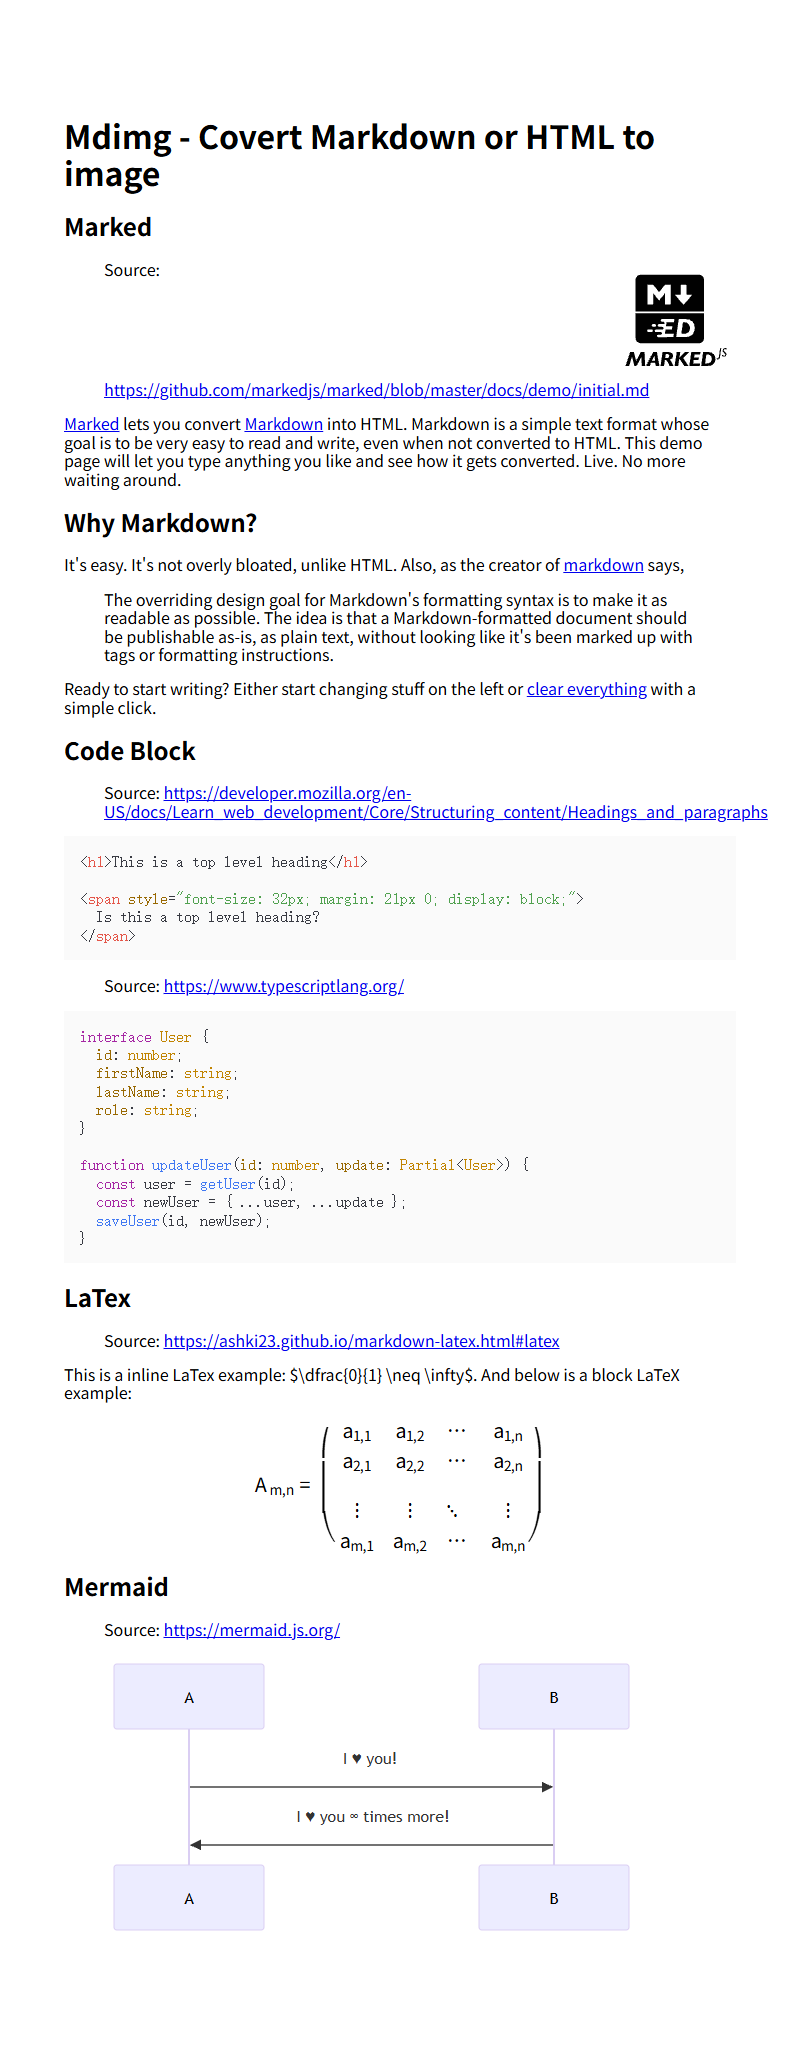
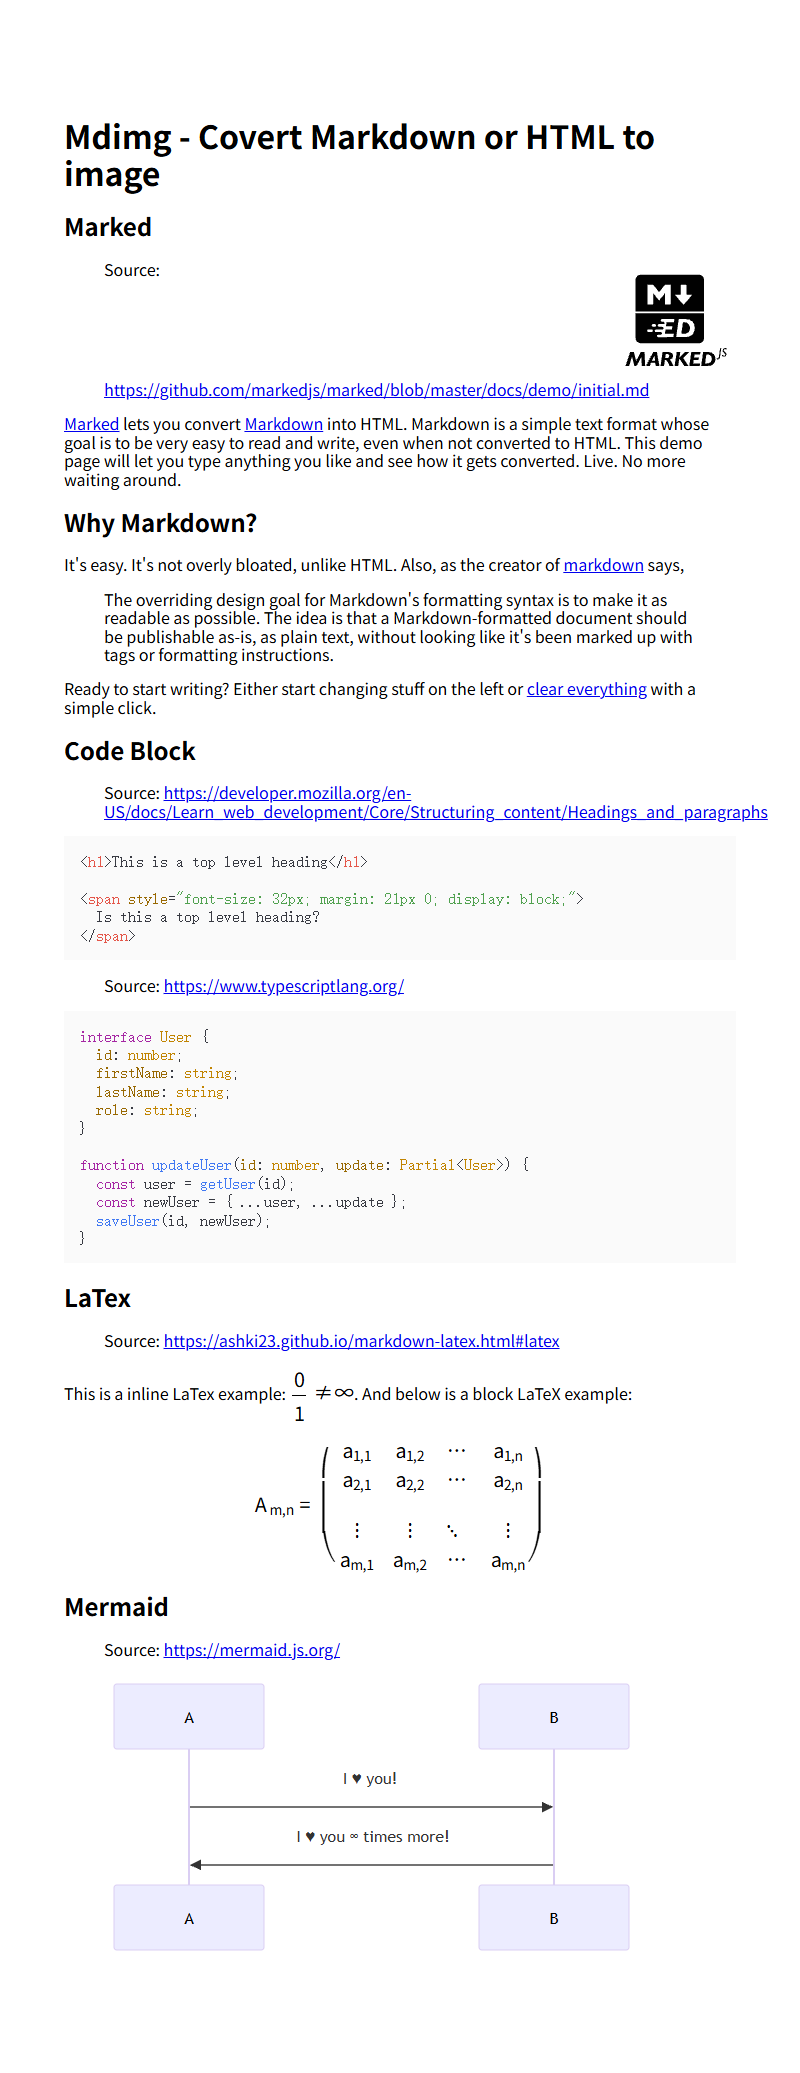
fix(mathjax): fix configuration

diff --git a/lib/mdimg.js b/lib/mdimg.js
@@ -1,1 +1,1 @@
-"use strict";var e=require("fs"),t=require("path"),n=require("puppeteer"),i=require("cheerio"),r=require("marked");const s=async e=>{const t=new r.marked.Renderer;t.code=({text:e,lang:t})=>{const n=e.replace(/</g,"&lt;").replace(/>/g,"&gt;");return"mermaid"==t?`<pre class="mermaid">${n}</pre>`:`<pre><code class="language-${t}">${n}</code></pre>`};return r.marked.parse(e,{renderer:t})},a=(e,t)=>String(e).padStart(t,"0"),l=async({inputText:r,inputFilename:l,mdText:o,mdFile:c,outputFilename:d,type:m="png",width:p=800,height:h=100,encoding:g="binary",quality:u=100,htmlText:w,cssText:y,htmlTemplate:$="default",cssTemplate:f="default",theme:S="light",extensions:x=!0,log:v=!1,debug:b=!1,puppeteerProps:_={}})=>{const T=["jpeg","png","webp"],j=["base64","binary","blob"],F={html:"",data:"base64"===g?"":Uint8Array.from([]),path:void 0};let M="";const k=l||c,O=r||o;if(k){const n=t.resolve(k);if(!e.existsSync(n))throw new Error(`input file ${n} is not exists.\n`);if(!e.statSync(n).isFile())throw new Error("input is not a file.\n");M=e.readFileSync(n).toString(),v&&process.stderr.write(`Info: start to convert file ${n} to an image...\n`)}else{if(!O)throw new Error("text or file is required to be converted.\n");M=O,v&&process.stderr.write("Info: start to convert text to an image...\n")}const q=g,E="binary"===q;if(!j.includes(q))throw new Error(`encoding type ${q} is not supported. Valid types: ${j.join(", ")}.\n`);let J,H,U=m;if(!T.includes(U))throw new Error(`output file type ${U} is not supported. Valid types: ${T.join(", ")}.\n`);if(E)if(d){const e=t.basename(d),n=t.dirname(d),i=e.split("."),r=i.length;if(r<=1)J=t.resolve(n,`${e}.${U}`);else{const s=i[r-1];T.includes(s)?(U=s,J=t.resolve(d)):(v&&process.stderr.write(`Warning: output file type must be one of 'jpeg', 'png' or 'webp'. Use '${U}' type.\n`),J=t.resolve(n,`${e}.${U}`))}}else J=t.resolve("mdimg_output",(e=>{const t=new Date;return`mdimg_${t.getFullYear()}_${a(t.getMonth()+1,2)}_${a(t.getDate(),2)}_${a(t.getHours(),2)}_${a(t.getMinutes(),2)}_${a(t.getSeconds(),2)}_${a(t.getMilliseconds(),3)}.${e}`})(U));"png"!==U&&(H=u>0&&u<=100?u:100);const L=(({renderedHtml:n,htmlText:r,cssText:s,htmlTemplate:a="default",cssTemplate:l="default",theme:o="light",extensions:c=!0,log:d=!1})=>{let m=r,p=s;if(!m){let n=t.resolve(a.endsWith(".html")?a:`${__dirname}/../template/html/${a}.html`);try{e.accessSync(n,e.constants.R_OK)}catch(e){d&&process.stderr.write(`Warning: HTML template ${n} is not found or unreadable. Use default HTML template.\n${e}\n`),n=t.resolve(`${__dirname}/../template/html/default.html`)}m=e.readFileSync(n).toString()}if(!p){let n=t.resolve(l.endsWith(".css")?l:`${__dirname}/../template/css/${l}.css`);try{e.accessSync(n,e.constants.R_OK)}catch(e){d&&process.stderr.write(`Warning: CSS template ${n} is not found or unreadable. Use default CSS template.\n${e}\n`),n=t.resolve(`${__dirname}/../template/css/default.css`)}p=e.readFileSync(n).toString()}const h=i.load(m);if(h("head").append(`\n<meta charset="UTF-8">\n<meta name="viewport" content="width=device-width, initial-scale=1.0">\n<title>mdimg rendering preview</title>\n<style>\n${p}\n</style>\n`),h(".markdown-body").html(n),!1!==c){const n=Object.assign({highlightJs:!0,mathJax:!0,mermaid:!0},c),{highlightJs:i,mathJax:r,mermaid:s}=n;if(!1!==i){const n=Object.assign({theme:`atom-one-${o}`},i),r=e.readFileSync(t.resolve(`${__dirname}/../static/highlightjs/cdn-release@11/build/styles/${n.theme}.min.css`)),s=e.readFileSync(t.resolve(`${__dirname}/../static/highlightjs/cdn-release@11/build/highlight.min.js`));h("head").append(`\n\x3c!-- highlight.js --\x3e\n<style>${r}</style>\n<script>${s}<\/script>\n<script>\n  hljs.configure(${JSON.stringify(n)});\n  hljs.highlightAll();\n<\/script>\n`)}if(!1!==r){const n=Object.assign({},r),i=e.readFileSync(t.resolve(`${__dirname}/../static/mathjax@3/es5/tex-mml-chtml.js`));h("head").append(`\n\x3c!-- MathJax --\x3e\n<script>${i}<\/script>\n<script>\n  MathJax = ${JSON.stringify(n)}\n<\/script>\n`)}if(!1!==s){const e=Object.assign({startOnLoad:!0,theme:"dark"===o?"dark":void 0},s);h("head").append(`\n\x3c!-- Mermaid --\x3e\n<script type="module">\n  import mermaid from 'https://unpkg.com/mermaid@11/dist/mermaid.esm.min.mjs';\n  mermaid.initialize(${JSON.stringify(e)});\n<\/script>\n`)}}return h.html()})({renderedHtml:await s(M),htmlText:w,cssText:y,htmlTemplate:$,cssTemplate:f,extensions:x,theme:S,log:v});F.html=L;const W=Math.max(h,100),A=await n.launch({defaultViewport:{width:p,height:W},args:[`--window-size=${p},${W}`],..._}),C=k?t.dirname(t.resolve(k)):process.cwd(),D=t.resolve(C,`.mdimg_temp_${(new Date).getTime()}_${a(Math.floor(1e4*Math.random()),4)}.html`);try{e.writeFileSync(D,L)}catch(e){v&&process.stderr.write(`Warning: write temporary local HTML file failed, local files may not display correctly. ${e}\n`)}const N=e.existsSync(D);try{const n=await A.newPage();N?await n.goto(`file://${D}`,{waitUntil:"networkidle0"}):await n.setContent(L,{waitUntil:"networkidle0"});const i=await n.$("#mdimg-body");if(!i)throw new Error(`missing HTML element with id: mdimg-body.\nHTML template ${$} is not valid.\n`);if("binary"===q||"blob"===q){E&&(n=>{const i=t.dirname(n);try{e.mkdirSync(i,{recursive:!0}),e.writeFileSync(n,"")}catch(e){throw new Error(`create new file ${n} failed.\n${String(e)}\n`)}})(String(J));const n=await i.screenshot({path:E?J:void 0,type:U,quality:H,encoding:"binary"});v&&process.stderr.write(`Success: convert to image${E?` and saved as ${J}`:""} successfully!\n`),F.data=n,F.path=E?J:void 0}else if("base64"===q){const e=await i.screenshot({type:U,quality:H,encoding:"base64"});v&&process.stderr.write("Success: convert to BASE64 encoded string successfully!\n"),F.data=e}}catch(e){throw new Error(String(e))}finally{await(async()=>{N&&!b&&e.rmSync(D),await A.close()})()}return F};exports.convert2img=l,exports.mdimg=l;
+"use strict";var e=require("fs"),t=require("path"),n=require("puppeteer"),i=require("cheerio"),r=require("marked");const s=async e=>{const t=new r.marked.Renderer;t.code=({text:e,lang:t})=>{const n=e.replace(/</g,"&lt;").replace(/>/g,"&gt;");return"mermaid"==t?`<pre class="mermaid">${n}</pre>`:`<pre><code class="language-${t}">${n}</code></pre>`};return r.marked.parse(e,{renderer:t})},a=(e,t)=>String(e).padStart(t,"0"),o=async({inputText:r,inputFilename:o,mdText:l,mdFile:c,outputFilename:d,type:m="png",width:p=800,height:h=100,encoding:g="binary",quality:u=100,htmlText:y,cssText:w,htmlTemplate:$="default",cssTemplate:f="default",theme:x="light",extensions:S=!0,log:b=!1,debug:v=!1,puppeteerProps:_={}})=>{const T=["jpeg","png","webp"],j=["base64","binary","blob"],M={html:"",data:"base64"===g?"":Uint8Array.from([]),path:void 0};let F="";const k=o||c,J=r||l;if(k){const n=t.resolve(k);if(!e.existsSync(n))throw new Error(`input file ${n} is not exists.\n`);if(!e.statSync(n).isFile())throw new Error("input is not a file.\n");F=e.readFileSync(n).toString(),b&&process.stderr.write(`Info: start to convert file ${n} to an image...\n`)}else{if(!J)throw new Error("text or file is required to be converted.\n");F=J,b&&process.stderr.write("Info: start to convert text to an image...\n")}const O=g,q="binary"===O;if(!j.includes(O))throw new Error(`encoding type ${O} is not supported. Valid types: ${j.join(", ")}.\n`);let E,H,U=m;if(!T.includes(U))throw new Error(`output file type ${U} is not supported. Valid types: ${T.join(", ")}.\n`);if(q)if(d){const e=t.basename(d),n=t.dirname(d),i=e.split("."),r=i.length;if(r<=1)E=t.resolve(n,`${e}.${U}`);else{const s=i[r-1];T.includes(s)?(U=s,E=t.resolve(d)):(b&&process.stderr.write(`Warning: output file type must be one of 'jpeg', 'png' or 'webp'. Use '${U}' type.\n`),E=t.resolve(n,`${e}.${U}`))}}else E=t.resolve("mdimg_output",(e=>{const t=new Date;return`mdimg_${t.getFullYear()}_${a(t.getMonth()+1,2)}_${a(t.getDate(),2)}_${a(t.getHours(),2)}_${a(t.getMinutes(),2)}_${a(t.getSeconds(),2)}_${a(t.getMilliseconds(),3)}.${e}`})(U));"png"!==U&&(H=u>0&&u<=100?u:100);const L=(({renderedHtml:n,htmlText:r,cssText:s,htmlTemplate:a="default",cssTemplate:o="default",theme:l="light",extensions:c=!0,log:d=!1})=>{let m=r,p=s;if(!m){let n=t.resolve(a.endsWith(".html")?a:`${__dirname}/../template/html/${a}.html`);try{e.accessSync(n,e.constants.R_OK)}catch(e){d&&process.stderr.write(`Warning: HTML template ${n} is not found or unreadable. Use default HTML template.\n${e}\n`),n=t.resolve(`${__dirname}/../template/html/default.html`)}m=e.readFileSync(n).toString()}if(!p){let n=t.resolve(o.endsWith(".css")?o:`${__dirname}/../template/css/${o}.css`);try{e.accessSync(n,e.constants.R_OK)}catch(e){d&&process.stderr.write(`Warning: CSS template ${n} is not found or unreadable. Use default CSS template.\n${e}\n`),n=t.resolve(`${__dirname}/../template/css/default.css`)}p=e.readFileSync(n).toString()}const h=i.load(m);if(h("head").append(`\n<meta charset="UTF-8">\n<meta name="viewport" content="width=device-width, initial-scale=1.0">\n<title>mdimg rendering preview</title>\n<style>\n${p}\n</style>\n`),h(".markdown-body").html(n),!1!==c){const n=Object.assign({highlightJs:!0,mathJax:!0,mermaid:!0},c),{highlightJs:i,mathJax:r,mermaid:s}=n;if(!1!==i){const n=Object.assign({theme:`atom-one-${l}`},i),r=e.readFileSync(t.resolve(`${__dirname}/../static/highlightjs/cdn-release@11/build/styles/${n.theme}.min.css`)),s=e.readFileSync(t.resolve(`${__dirname}/../static/highlightjs/cdn-release@11/build/highlight.min.js`));h("head").append(`\n\x3c!-- highlight.js styles --\x3e\n<style>${r}</style>\n`),h("body").append(`\n\x3c!-- highlight.js --\x3e\n<script>${s}<\/script>\n<script>\n  hljs.configure(${JSON.stringify(n)});\n  hljs.highlightAll();\n<\/script>\n`)}if(!1!==r){const n=Object.assign({},r),i=e.readFileSync(t.resolve(`${__dirname}/../static/mathjax@3/es5/tex-mml-chtml.js`));h("head").append(`\n\x3c!-- MathJax options --\x3e\n<script>\n  MathJax = ${JSON.stringify(n)}\n<\/script>\n`),h("body").append(`\n\x3c!-- MathJax --\x3e\n<script>${i}<\/script>\n`)}if(!1!==s){const e=Object.assign({startOnLoad:!0,theme:"dark"===l?"dark":void 0},s);h("body").append(`\n\x3c!-- Mermaid --\x3e\n<script type="module">\n  import mermaid from 'https://unpkg.com/mermaid@11/dist/mermaid.esm.min.mjs';\n  mermaid.initialize(${JSON.stringify(e)});\n<\/script>\n`)}}return h.html()})({renderedHtml:await s(F),htmlText:y,cssText:w,htmlTemplate:$,cssTemplate:f,extensions:S,theme:x,log:b});M.html=L;const W=Math.max(h,100),A=await n.launch({defaultViewport:{width:p,height:W},args:[`--window-size=${p},${W}`],..._}),C=k?t.dirname(t.resolve(k)):process.cwd(),D=t.resolve(C,`.mdimg_temp_${(new Date).getTime()}_${a(Math.floor(1e4*Math.random()),4)}.html`);try{e.writeFileSync(D,L)}catch(e){b&&process.stderr.write(`Warning: write temporary local HTML file failed, local files may not display correctly. ${e}\n`)}const N=e.existsSync(D);try{const n=await A.newPage();N?await n.goto(`file://${D}`,{waitUntil:"networkidle0"}):await n.setContent(L,{waitUntil:"networkidle0"});const i=await n.$("#mdimg-body");if(!i)throw new Error(`missing HTML element with id: mdimg-body.\nHTML template ${$} is not valid.\n`);if("binary"===O||"blob"===O){q&&(n=>{const i=t.dirname(n);try{e.mkdirSync(i,{recursive:!0}),e.writeFileSync(n,"")}catch(e){throw new Error(`create new file ${n} failed.\n${String(e)}\n`)}})(String(E));const n=await i.screenshot({path:q?E:void 0,type:U,quality:H,encoding:"binary"});b&&process.stderr.write(`Success: convert to image${q?` and saved as ${E}`:""} successfully!\n`),M.data=n,M.path=q?E:void 0}else if("base64"===O){const e=await i.screenshot({type:U,quality:H,encoding:"base64"});b&&process.stderr.write("Success: convert to BASE64 encoded string successfully!\n"),M.data=e}}catch(e){throw new Error(String(e))}finally{await(async()=>{N&&!v&&e.rmSync(D),await A.close()})()}return M};exports.convert2img=o,exports.mdimg=o;

diff --git a/src/utils/htmlSplicer.ts b/src/utils/htmlSplicer.ts
@@ -109,8 +109,12 @@ ${_cssSource}
       );
 
       $("head").append(`
-<!-- highlight.js -->
+<!-- highlight.js styles -->
 <style>${themeText}</style>
+`);
+
+      $("body").append(`
+<!-- highlight.js -->
 <script>${highlightScriptText}</script>
 <script>
   hljs.configure(${JSON.stringify(highlightJsOptions)});
@@ -127,11 +131,15 @@ ${_cssSource}
       );
 
       $("head").append(`
-<!-- MathJax -->
-<script>${mathJaxScriptText}</script>
+<!-- MathJax options -->
 <script>
   MathJax = ${JSON.stringify(mathJaxOptions)}
 </script>
+`);
+
+      $("body").append(`
+<!-- MathJax -->
+<script>${mathJaxScriptText}</script>
 `);
     }
 
@@ -144,7 +152,7 @@ ${_cssSource}
         mermaid,
       );
 
-      $("head").append(`
+      $("body").append(`
 <!-- Mermaid -->
 <script type="module">
   import mermaid from 'https://unpkg.com/mermaid@11/dist/mermaid.esm.min.mjs';
